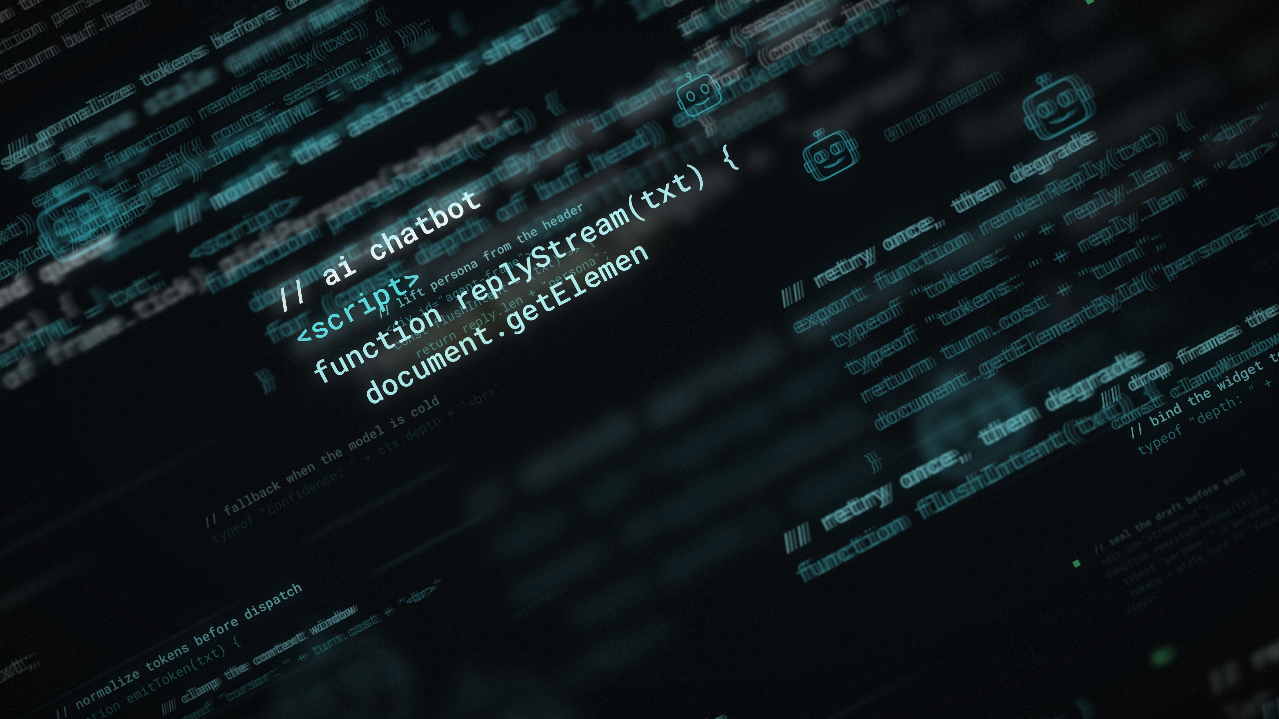
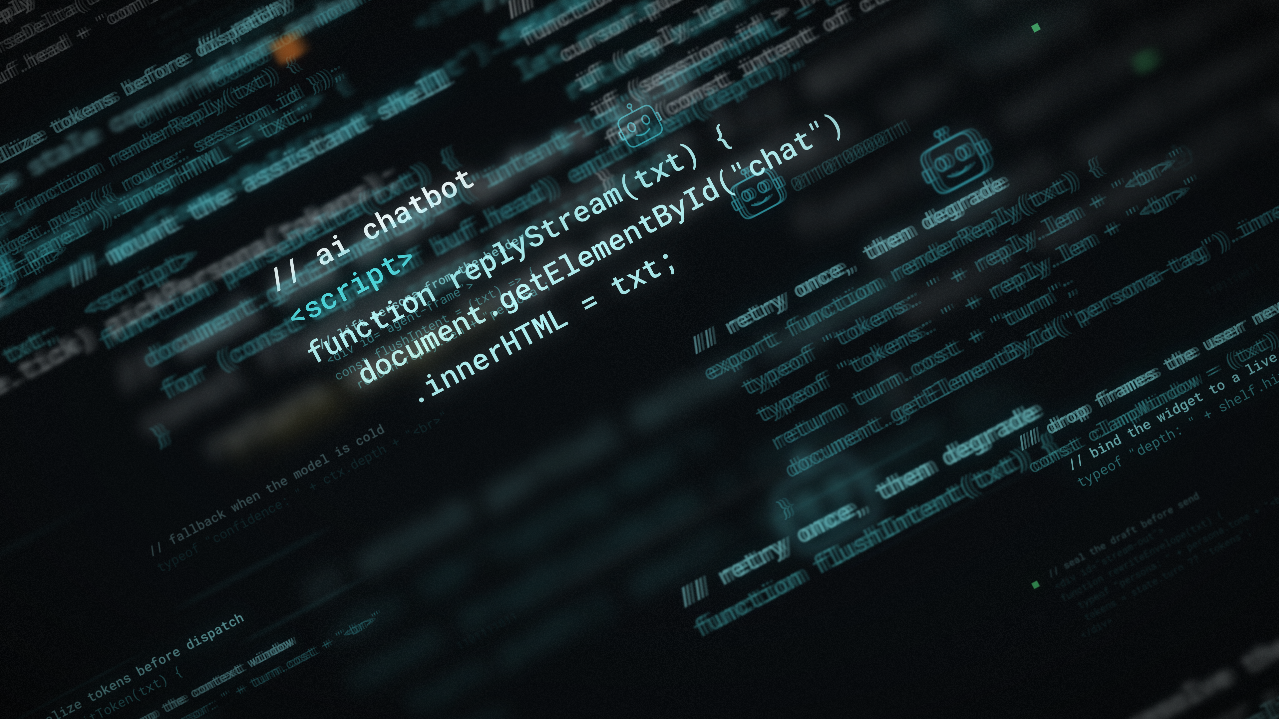
Give heroes a mid-pass stop and a second typing line
Two changes to the hero fragments.

They no longer drift at a constant rate. A hero comes in quickly, eases to a
dead stop in the middle of frame, finishes writing itself while stationary,
sits a beat, then accelerates away. Velocity is a smoothstep of distance from
the middle of the crossing clock: zero across the stop window, peaking at either
end. The peak lands on the wrap, where the hero is off frame, so the fast part
is never seen and the slow part is the whole readable pass - about 49px/frame
coming in, zero for 1.3 seconds at centre, 13px/frame through the readable zone.

The position curve is the integral of that velocity, normalised so a crossing
still advances exactly 1. The stop redistributes time within a crossing without
adding or removing any, so the loop stays exact.

Typing now spans the last two lines, with the DOM call split across them. That
keeps every line within about a word of the one above (27, 33, 21 characters),
so the block holds its shape rather than growing a tail off one edge. Typing is
keyed to the crossing clock rather than to position, so the writing carries on
at a steady rate straight through the stop instead of freezing with it, and is
timed to finish just as the hero settles.

Heroes also now take their travel from the distance they need to clear frame
rather than from their depth, so each crosses once per loop, slowly enough to
read, half a loop apart.

verify-loop still passes: frame 0 and frame 540 are pixel-identical.
[…]

diff --git a/src/CodeFlythrough/draw.ts b/src/CodeFlythrough/draw.ts
@@ -14,13 +14,50 @@ const mod1 = (n: number) => ((n % 1) + 1) % 1;
 const clamp01 = (n: number) => (n < 0 ? 0 : n > 1 ? 1 : n);
 
 /**
+ * Maps a hero's crossing clock to its crossing distance.
+ *
+ * Velocity is a smoothstep of how far the clock is from the middle: zero
+ * across the stop window, rising smoothly to a peak at either end. That peak
+ * lands on the wrap, where the hero is off frame, so the fast part is never
+ * seen and the slow part is the whole readable pass.
+ *
+ * The closed form is the integral of that velocity, normalised so a full
+ * crossing still advances exactly 1. That last property is what keeps the loop
+ * exact - the stop redistributes time within a crossing without adding or
+ * removing any.
+ */
+const heroEase = (u: number, dwell: number) => {
+  const half = 0.5 - dwell;
+  if (half <= 0) return u;
+  const past = u >= 0.5;
+  const t = clamp01(((past ? u - 0.5 : 0.5 - u) - dwell) / half);
+  const advance = t * t * t - (t * t * t * t) / 2;
+  return past ? 0.5 + advance : 0.5 - advance;
+};
+
+/**
+ * Position along the wrap, 1 at the entry edge falling to 0 at the exit edge.
+ *
+ * Ordinary elements drift at a constant rate. Heroes run on their own clock so
+ * they can stop mid-frame; `phase` is 0 for them, which is what puts the stop
+ * at frame centre.
+ */
+const progressFor = (el: FieldElement, f: number) => {
+  if (el.kind !== 'hero') {
+    return mod1(el.phase - (el.speed * f) / el.travel);
+  }
+  const u = mod1(f / C.DURATION + el.timeOffset);
+  return {prog: mod1(el.phase - heroEase(u, el.dwell)), u};
+};
+
+/**
  * Draws a hero fragment: the same tilt as everything else, its leading lines
  * already written, the rest typing itself out as the fragment crosses frame.
  *
- * `prog` runs 1 -> 0 over one crossing, so `1 - prog` is how far along the
- * crossing the fragment is. Deriving the typing from that instead of from the
- * frame number is what keeps it inside the loop: at frame 540 the fragment is
- * back at its frame-0 position and so shows its frame-0 characters.
+ * `u` is the crossing clock, running 0 -> 1 across one pass. Deriving the
+ * typing from that instead of from the frame number is what keeps it inside the
+ * loop: at frame 540 the fragment is back at its frame-0 crossing position and
+ * so shows its frame-0 characters.
  */
 const drawHero = (
   g: CanvasRenderingContext2D,
@@ -29,10 +66,12 @@ const drawHero = (
   y: number,
   scale: number,
   f: number,
-  prog: number,
+  u: number,
   fontFamily: string,
 ) => {
-  const typed = clamp01((1 - prog - C.HERO_TYPE_START) / C.HERO_TYPE_SPAN);
+  // Keyed on the crossing clock rather than on position, so the writing keeps
+  // its steady rate straight through the stop instead of freezing with it.
+  const typed = clamp01((u - C.HERO_TYPE_START) / C.HERO_TYPE_SPAN);
 
   const animated = el.lines.slice(el.staticLines);
   const total = animated.reduce((n, line) => n + line.length, 0);
@@ -224,15 +263,16 @@ export const drawFrame = ({
     const el = field[idx] as FieldElement;
     const sp = sprites[idx] as Sprite;
 
-    const prog = mod1(el.phase - (el.speed * f) / el.travel);
-    const u = (prog - 0.5) * el.travel;
+    const p = progressFor(el, f);
+    const prog = typeof p === 'number' ? p : p.prog;
+    const along = (prog - 0.5) * el.travel;
     const perp = el.perp + cam;
 
-    const x = (C.CX + C.AX * u + C.PX * perp) * sx;
-    const y = (C.CY + C.AY * u + C.PY * perp) * sy;
+    const x = (C.CX + C.AX * along + C.PX * perp) * sx;
+    const y = (C.CY + C.AY * along + C.PY * perp) * sy;
 
-    if (el.kind === 'hero') {
-      drawHero(ctx, el, x, y, el.scale * sx, f, prog, fontFamily);
+    if (typeof p !== 'number') {
+      drawHero(ctx, el, x, y, el.scale * sx, f, p.u, fontFamily);
       continue;
     }
 

diff --git a/src/CodeFlythrough/constants.ts b/src/CodeFlythrough/constants.ts
@@ -132,12 +132,40 @@ export const HERO_Z = 0.49;
 /** Fixed rather than derived from z: the hero is deliberately oversized. */
 export const HERO_SCALE = 2.45;
 /**
- * Typing runs over this window of the element's crossing and then holds
- * complete. Tied to the crossing rather than to a wall clock, so it loops for
- * free: at frame 540 every element is back at its frame-0 crossing position,
- * and therefore at its frame-0 typing state.
+ * A hero crosses once per loop, so it drifts through the whole nine seconds.
+ * Travel is set from the distance it needs to clear frame rather than from its
+ * depth, which is what lets it move slowly enough to read.
  */
-export const HERO_TYPE_START = 0.24;
-export const HERO_TYPE_SPAN = 0.42;
+export const HERO_TRAVEL_MULT = 2.15;
+
+/**
+ * The hold.
+ *
+ * A hero does not drift at a constant rate. It comes in quickly, eases to a
+ * dead stop as it reaches the middle of frame, sits there while it finishes
+ * writing itself, then accelerates away. HERO_DWELL is the half-width of the
+ * stop as a fraction of the crossing: 0.07 means it is stationary for 14% of
+ * its nine seconds, a shade over a second.
+ *
+ * The distance is unchanged, so the time it does not spend stopped is spent
+ * moving faster - and the fastest point is the wrap, where it is off frame
+ * anyway. Slow where it is readable, quick where it is not.
+ */
+export const HERO_DWELL = 0.07;
+
+/**
+ * Typing runs over this window of the crossing and then holds complete.
+ *
+ * The window is measured against the crossing's own clock, not against the
+ * hero's position, so the writing carries on at a steady rate through the stop
+ * instead of freezing with it. It is timed to finish just after the hero
+ * settles, leaving about a second of written, motionless text.
+ *
+ * Both are tied to the crossing rather than to a wall clock, so they loop for
+ * free: at frame 540 every element is back at its frame-0 crossing position and
+ * therefore at its frame-0 typing state.
+ */
+export const HERO_TYPE_START = 0.28;
+export const HERO_TYPE_SPAN = 0.18;
 /** Caret blink period in frames. Must divide DURATION: 540 / 36 = 15. */
 export const HERO_CARET_PERIOD = 36;

diff --git a/src/CodeFlythrough/field.ts b/src/CodeFlythrough/field.ts
@@ -47,6 +47,10 @@ export interface FieldElement {
   staticLines: number;
   /** hero only: one colour per line. */
   lineColors: string[];
+  /** hero only: half-width of the mid-crossing stop, as a fraction of it. */
+  dwell: number;
+  /** hero only: where in the 540-frame loop this hero's crossing begins. */
+  timeOffset: number;
 }
 
 export type Measure = (
@@ -213,6 +217,8 @@ const base = (
     squareSize: 0,
     staticLines: 0,
     lineColors: [],
+    dwell: 0,
+    timeOffset: 0,
   };
 };
 
@@ -333,7 +339,6 @@ export const buildField = (measure: Measure): FieldElement[] => {
     // The hero is what the eye reads. It does not get smeared.
     el.steps = 1;
     el.perp = i === 0 ? -C.PERP_SPREAD * 0.11 : C.PERP_SPREAD * 0.03;
-    el.phase = i === 0 ? 0.75 : 0.25;
     el.color = C.COLORS.codeCyan;
     el.commentColor = C.COLORS.codeWhite;
     el.lineColors = hero.lines.map((line, li) => {
@@ -343,12 +348,19 @@ export const buildField = (measure: Measure): FieldElement[] => {
     });
     el.glow = 1.3;
 
-    // Re-resolve the wrap now that scale is the hero's own, not z * MAX_SCALE.
+    // One crossing per loop, at whatever speed that implies, rather than the
+    // speed its depth would give it: a hero that is meant to be read cannot
+    // also be moving at mid-field pace.
     const axisExtent = w0 * el.scale + h0 * el.scale * 0.12;
-    const wrap = wrapFor(C.HERO_Z, axisExtent);
-    el.speed = wrap.speed;
-    el.travel = wrap.travel;
-    el.cycles = wrap.cycles;
+    el.travel = (C.AXIS_VIEW + axisExtent + 60) * C.HERO_TRAVEL_MULT;
+    el.cycles = 1;
+    el.speed = el.travel / C.DURATION;
+
+    // phase 0 puts the stop exactly at frame centre; timeOffset decides when
+    // in the loop it happens. Half a loop apart, so they take turns.
+    el.phase = 0;
+    el.dwell = C.HERO_DWELL;
+    el.timeOffset = i === 0 ? 0.35 : 0.85;
 
     out.push(el);
   }

diff --git a/src/CodeFlythrough/snippets.ts b/src/CodeFlythrough/snippets.ts
@@ -189,8 +189,9 @@ export const isComment = (line: string) => line.trimStart().startsWith('//');
  * but the function names and element ids are made up for this animation.
  *
  * `staticLines` is how many lines are already written when the fragment enters
- * frame. Only the final line types itself out, and it is kept to within about
- * a word of the line above it so the block stays a tidy shape while it writes.
+ * frame. The last two type themselves out, and the call is split across them so
+ * neither runs more than about a word past the line above - the block keeps a
+ * tidy shape the whole way through instead of growing a tail off one edge.
  */
 export interface HeroSnippet {
   lines: string[];
@@ -204,6 +205,7 @@ export const HERO_SNIPPETS: readonly HeroSnippet[] = [
       '<script>',
       'function replyStream(txt) {',
       '  document.getElementById("chat")',
+      '    .innerHTML = txt;',
     ],
     staticLines: 3,
   },
@@ -213,6 +215,7 @@ export const HERO_SNIPPETS: readonly HeroSnippet[] = [
       '<script>',
       'function scoreIntent(txt) {',
       '  document.getElementById("bot")',
+      '    .innerHTML = txt;',
     ],
     staticLines: 3,
   },

diff --git a/README.md b/README.md
@@ -68,47 +68,48 @@ makes the field cohere into a stream instead of scattered debris.
 
 ### The hero fragments
 
-Two of the fragments are heroes: large, sharp, on the shared tilt, with their
-**final line** typing itself out as they cross frame — the comment, the
-`<script>` tag and the function declaration already written, then the DOM call
-appearing character by character behind a blinking caret.
+Two of the fragments are heroes: large, sharp, on the shared tilt, and unlike
+everything else in the shot they do not drift at a constant rate. A hero comes
+in quickly, eases to a dead stop in the middle of frame, finishes writing itself
+while stationary, sits there a beat, then accelerates away.
+
+Its **last two lines** type themselves out behind a blinking caret:
 
 ```
 // ai chatbot                     already written
 <script>                          already written
 function replyStream(txt) {       already written
-  document.getElementById("chat") types out
+  document.getElementById("chat")   types out
+    .innerHTML = txt;               types out
 ```
 
-The typing line is kept to within about a word of the line above it, so the
-block holds a tidy shape the whole way through instead of growing a long tail
-off one edge.
+Splitting the call across two lines is what keeps the block tidy — no line runs
+more than about a word past the one above it (27 → 33 → 21 characters), so it
+holds its shape all the way through instead of growing a long tail off one edge.
 
-They are the one population drawn live instead of from a cached sprite, since
-their content changes every frame. That costs nothing: two elements, four short
+Heroes are the one population drawn live instead of from a cached sprite, since
+their content changes every frame. That costs nothing: two elements, five short
 lines, no blur, no filter.
 
-Typing progress is derived from how far the fragment is through its crossing,
-not from the frame number:
+**The stop.** Velocity is a smoothstep of how far the crossing clock is from its
+middle — zero across the stop window, rising to a peak at either end. That peak
+lands on the wrap, where the hero is off frame, so the fast part is never seen
+and the slow part is the whole readable pass. Roughly 49px/frame on the way in,
+0 for about 1.3 seconds at centre, 13px/frame through the readable zone.
 
-```
-typed = clamp01((1 - prog - HERO_TYPE_START) / HERO_TYPE_SPAN)
-```
+The position curve is the integral of that velocity, normalised so a crossing
+still advances exactly 1 — the stop redistributes time *within* a crossing
+without adding or removing any, which is what keeps the loop exact.
 
-so it loops for free. At frame 540 the fragment is back at its frame-0 crossing
-position and therefore shows its frame-0 characters. The caret blink is on a
-36-frame period, and 540 / 36 = 15. The two heroes are phase-offset by half the
-loop and each crosses twice, so the writing plays four times over the nine
-seconds and one hero is always the one being written.
+**The typing** is keyed to the crossing clock rather than to the hero's
+position, so the writing carries on at its steady rate straight through the stop
+instead of freezing with it. It is timed to finish just as the hero settles.
 
-### The seamless loop
-
-Each element's travel distance is chosen so that
-`travel * cycles === speed * 540` exactly, with `cycles` a whole number. At frame
-540 every element has completed an integer number of wraps and is back on its
-frame-0 position. The camera drift is two sines with periods of 540 and 270
-frames, and the grain is indexed by `frame % 540`. `npm run verify-loop` renders
-both frames as lossless PNGs and compares their hashes.
+Both are functions of the crossing rather than of a wall clock, so they loop for
+free: at frame 540 a hero is back at its frame-0 crossing position and therefore
+at its frame-0 characters. The caret blink is on a 36-frame period, and
+540 / 36 = 15. The two heroes cross once each per loop, half a loop apart, so
+they take turns being the one that stops.
 
 ### Determinism
 
